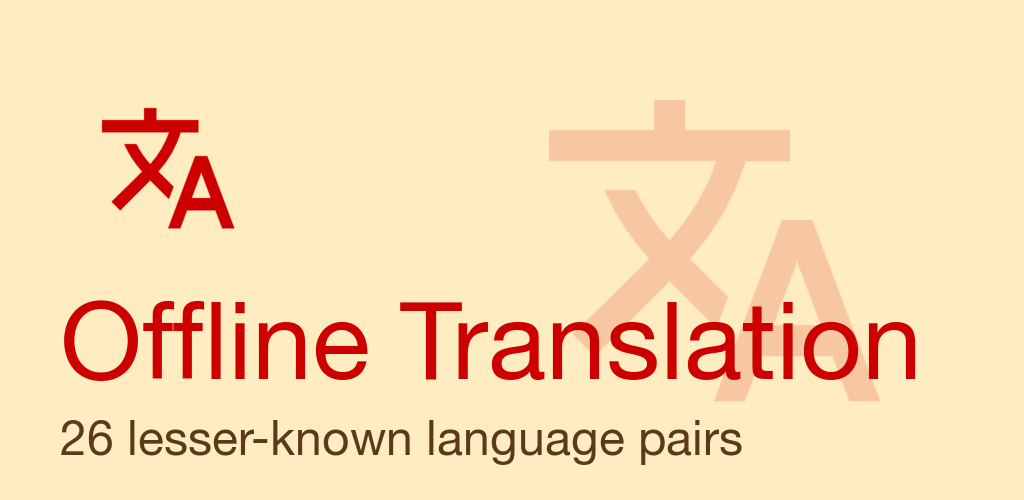
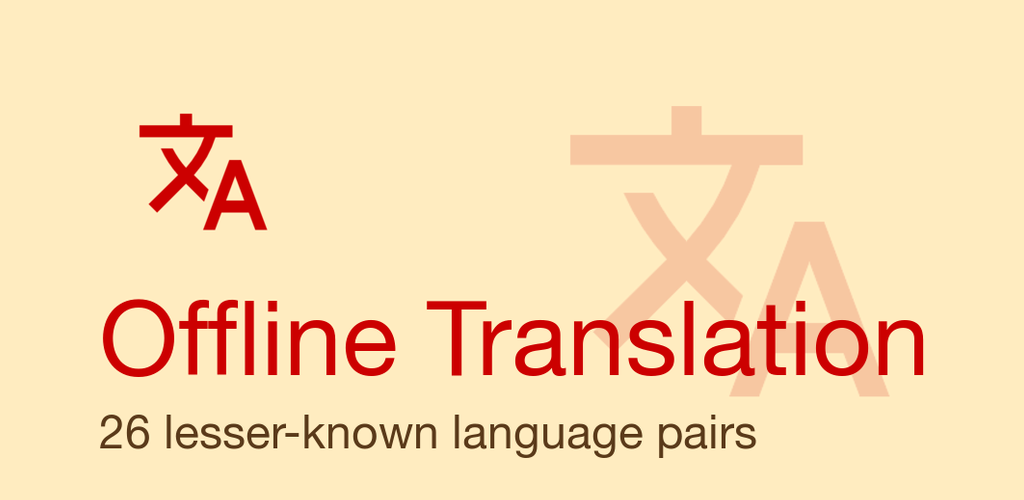
Feature graphics: refit Offline Translation + Sardu into the Play safe zone
Play web crops feature graphics to 16:9 (~68 px per side), clipping the
"O" of "Offline Translation" and "Italianu"/"Comuna" on the Sardinian
graphic (which had no source in the repo; the live image is now saved
under sardu/play/). Both refitted into x 100..924 with
app-store-optimization/tools/feature-graphic/safe_zone.py refit.

Changed region(s): [[0.0625, 0.18, 0.9062, 0.81], [0.0625, 0.81, 0.75, 0.93], [0.0938, 0.21, 0.2812, 0.48]]

diff --git a/sardu/README.md b/sardu/README.md
@@ -207,6 +207,12 @@ and the About dialog names the repo (github.com/rmtheis/translate, `sardu/`).
   declarations (privacy policy, ads = none, sign-in = none, IARC = all ages, target
   age 18+, data safety = no collection, no government/financial/health features,
   advertising ID = not used) and category (Tools) were done in the console UI.
+- Feature graphic: `play/feature-graphic.png` (one image for en-US and it-IT).
+  The red "Sardu ⇄ Italianu" design had no source in the repo; the live image
+  was refitted on 2026-10-13 (content scaled 0.93 into the Play safe zone,
+  x 100..924 — Play web crops cards to 16:9 and clipped "Italianu"/"Comuna").
+  Rule + tools: `~/Documents/app-store-optimization/tools/feature-graphic/`. Push with
+  `upload_feature_graphics.py --package com.qvyshift.sardu --image sardu/play/feature-graphic.png --locales all --commit`.
 - Privacy policy: https://www.qvyshift.com/privacy-policy-sardu.html (in the
   `qvyshift-website` repo, `public/`; deploys on push to master).
 - Play "automatic protection" (installer check) was turned OFF at app creation:

diff --git a/android/README.md b/android/README.md
@@ -275,3 +275,11 @@ cd android && ./gradlew :app:testDebugUnitTest && ./gradlew :app:bundleRelease
   6 directions (eng↔spa, spa→cat, nno→nob, rus→ukr, cat→ita), upgrade from 1.0.11 keeps
   the chosen pair, the marks setting and the downloaded pairs.
 - **1.0.11** (2026092911): input-escaping fix, 100% on production.
+
+## Play listing graphics
+
+`play/feature_graphic.png` (com.qvyshift.translate, en-US) and `play/icon_512.png`.
+The "Offline Translation" feature graphic was refitted on 2026-10-13 (content
+scaled 0.96 into the Play safe zone, x 100..924: Play web crops cards to 16:9
+and clipped the "O"). Rule + tools: `~/Documents/app-store-optimization/tools/feature-graphic/`. Push with
+`upload_feature_graphics.py --package com.qvyshift.translate --image android/play/feature_graphic.png --locales all --commit`.
